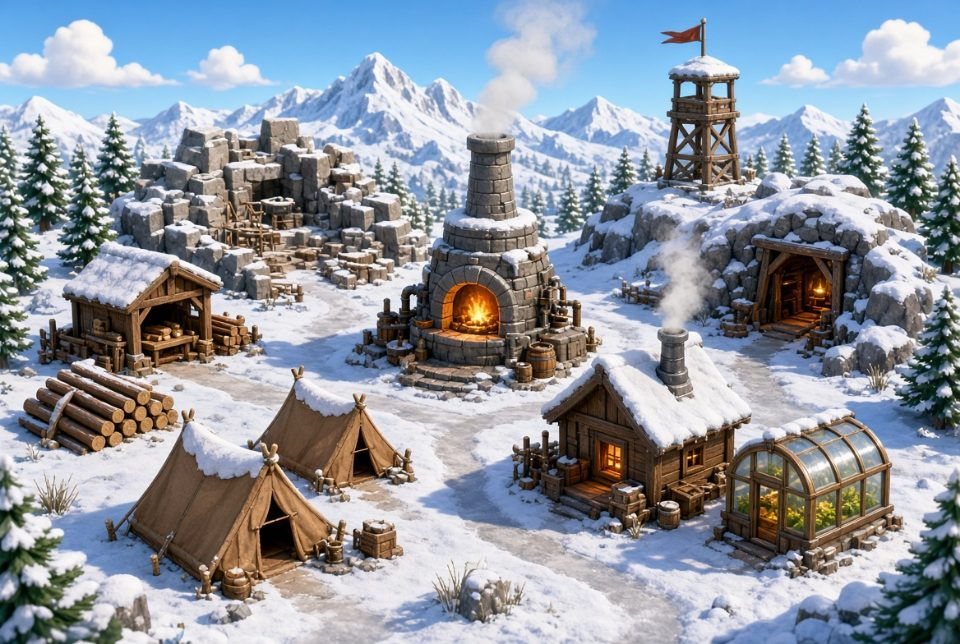
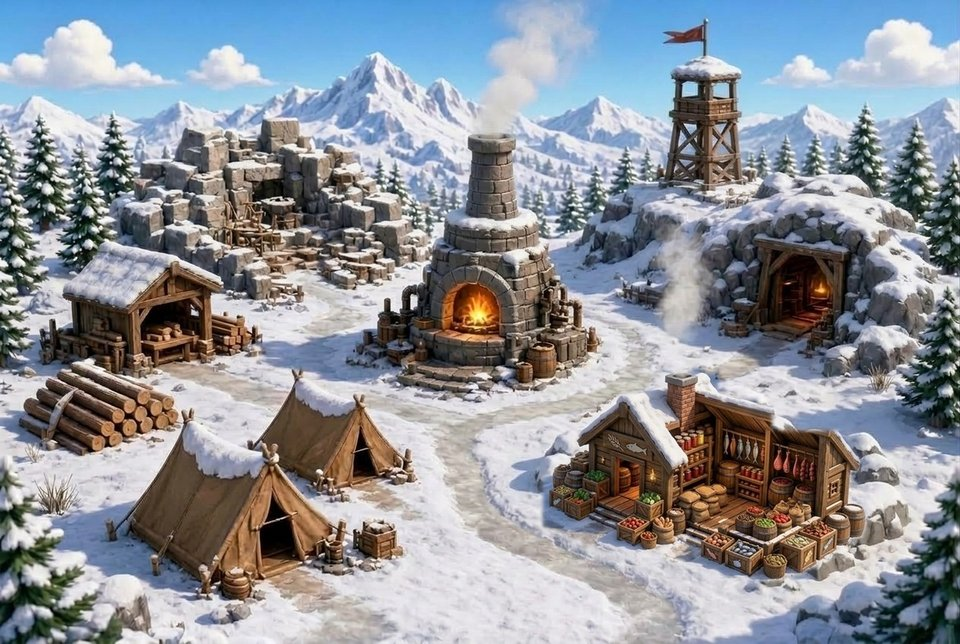
Lv5 の基地の絵の食料庫を描き直す（食料を蓄える蔵に。判断182）
Claude-Session: https://claude.ai/code/session_01UjvwbQ2i7zhmuacMMpyLDn

diff --git a/js/ui/base.js b/js/ui/base.js
@@ -123,7 +123,7 @@
   // 建物の絵そのもの（ART_AREAS の楕円の内側の四角）も押せる。どちらを押しても、SVG の風景と同じく建物の画面を開く
   var ART_SPOTS = {
     quarry: { x: 31, y: 44 }, watchtower: { x: 72, y: 29 }, lumber: { x: 13, y: 59 },
-    furnace: { x: 51, y: 59 }, mine: { x: 86, y: 56 }, housing: { x: 29, y: 87 }, foodhall: { x: 73, y: 87 }
+    furnace: { x: 51, y: 59 }, mine: { x: 86, y: 56 }, housing: { x: 29, y: 87 }, foodhall: { x: 73, y: 92 }
   };
 
   // ---- レベルで変わる基地の絵（判断180） ----
@@ -136,7 +136,7 @@
     quarry: { cx: 27, cy: 30, rx: 18, ry: 16 }, lumber: { cx: 15, cy: 52, rx: 15, ry: 15 },
     furnace: { cx: 51, cy: 37, rx: 13, ry: 24 }, watchtower: { cx: 72, cy: 15, rx: 8, ry: 17 },
     mine: { cx: 82, cy: 40, rx: 15, ry: 15 }, housing: { cx: 27, cy: 73, rx: 18, ry: 21 },
-    foodhall: { cx: 74, cy: 71, rx: 21, ry: 19 }
+    foodhall: { cx: 74, cy: 73, rx: 21, ry: 20 }
   };
   function fieldLevel(level) {
     var best = FIELD_LEVELS[0];
@@ -167,7 +167,7 @@
       5: [{ x: 50.8, y: 21, size: 7, puffs: 4, sec: 5, dx: 90 }]        // 中央炉の煙突
     },
     foodhall: {
-      5: [{ x: 70.1, y: 51, size: 5, puffs: 3, sec: 4.2, dx: 15 }]      // 家の煙突
+      5: [{ x: 71.0, y: 58, size: 4, puffs: 3, sec: 4.2, dx: 15 }]      // 食料庫の煙突
     }
   };
   function smokeView(p) {

diff --git a/DECISIONS.md b/DECISIONS.md
@@ -255,3 +255,4 @@
 179. 基地の絵に動く煙を足す（2026-09-28 ユーザーの依頼。まず今の絵のまま試す）：絵に描いてある煙突の出口（中央炉 x 50.8%・y 21%、食料庫の家 x 70.1%・y 51%。`base.js` の `ART_SMOKE`）に、白くふちのぼやけた丸い粒（CSS の radial-gradient）を中央炉は4つ・5秒、家は3つ・4.2秒で、時間をずらして上げる。粒は右へ流れながら上がり、2.4倍に広がって消える（描いてある煙の向きに合わせ、家は横に流れる量を少なく）。画像は増やさない。建物が Lv1 以上のときだけ出す。端末で「動きを減らす」を選んでいるときは出さない。描いてある煙と重なるので、自然さが足りなければ、煙のない絵に差し替えて粒の量を増やす。
 180. 建物のレベルで基地の絵を変える（2026-09-28 ユーザーの依頼。Lv1 の雪原はユーザーの新しい絵、これまでの雪原は Lv5 相当）：絵は「全部の建物がそのレベルの姿」の雪原を1枚ずつ（`img/art/field_lv1.jpg`・`field_lv5.jpg`。元の絵は `img/test_img/field_lv1.jpg`・`field_lv5.jpg`。どれも同じ構図）。Lv1 の絵を土台にして、建物ごとに、そのレベルの絵の建物のまわり（`base.js` の `ART_AREAS`。ふちをぼかした楕円。CSS の mask-image）だけを重ねる。こうすると、建物ごとにレベルが違っても、必要な絵はレベルの数（最大5枚）で済む。絵のないレベルは、それより低いレベルでいちばん近い絵を使う（今は Lv1〜4 が Lv1 の姿、Lv5 で Lv5 の姿。`FIELD_LEVELS` に足せば Lv2〜4 も使える）。まだ使えない建物（Lv0）は Lv1 の絵の姿（採石場は岩の山）、見張り塔は探索が開いたら Lv5 の絵の塔（それまでは柱）。煙（判断179）は「建物 → 絵のレベル → 出どころ」の表にし、Lv1 の中央炉はたき火から小さく、Lv5 は煙突から出す。食料庫の家の煙は Lv5 の絵だけ。
 181. 基地の絵の名札を小さくして建物からずらす（2026-09-28 ユーザーの了承）：判断177 の札（小さな建物の絵＋名前）は建物の絵に重なり、レベルで変わる姿（判断180）が見えにくかったため、小さな絵をやめて名前・Lv の名札だけにし、建物のすぐ下などの空いた地面に置く（`base.js` の `ART_SPOTS`）。建物の絵そのもの（`ART_AREAS` の楕円の内側の四角）も押せる（見た目はなし。キーボード・読み上げでは名札を使う）。強化できるときは名札のふちを緑にして ▲、工事中はふちを黄色にして 🔨、まだ使えないときは薄くして 🔒。
+182. Lv5 の基地の絵の食料庫を描き直す（2026-09-28 ユーザーの依頼と了承）：右下の「家＋ガラスの温室」は食料庫に見えないため、食料を蓄える木の蔵（前が開いて棚・たる・干した魚や肉・穀物の袋、まわりに野菜や果物の箱、れんがの煙突、看板は麦と魚の絵で文字なし）にした。Gemini（gemini-3.1-flash-image）で、(1) Lv5 の絵の食料庫だけを描き直し、(2) 看板の文字と道にはみ出した箱を消した。大きさは頼んでも変わらなかったため、(3) 食料庫を消した雪の絵を作ってもらい、(2) の絵から食料庫を切り抜いて 78% に縮め、(3) に貼った（ほかの建物は位置がずれていないことを重ねて確かめた）。元の絵 `img/test_img/field_lv5.jpg`（1168×784）と `img/art/field_lv5.jpg`（幅 960px）を差し替え、食料庫の煙の出どころを x 71.0%・y 58%（粒は少し小さく）、重ねる楕円を cy 73%・ry 20%、名札を y 92% に直した。食料庫のまわりの雪に岩が少し増え、中央炉の右下にたるが少し増えている（切り貼りの土台にした絵のため。重ねる範囲では目立たない）。

diff --git a/CLAUDE.md b/CLAUDE.md
@@ -6,7 +6,7 @@
 
 - 仕様：`SPEC.md`（v0.1＋v0.4 の勉強量ポイントと引換所）、`SPEC_v0.2.md`（探索。矛盾したらこちらが優先）、`SPEC_save_integrity.md`、`SPEC_theme.md`、`SPEC_theme_default_day.md`、`SPEC_v0.3.md`、`SPEC_v0.3_battle.md`
 - 設計：`DESIGN.md`（v0.2 は第12章、v0.3 戦闘は第13章、v0.4 は第14章）
-- **判断した点（19〜）と進捗の詳細：`DECISIONS.md`**。仕様にない判断をしたら、その末尾に番号を続けて追記する（次は 182）。関係する機能を変える前に、該当する判断を検索して読む
+- **判断した点（19〜）と進捗の詳細：`DECISIONS.md`**。仕様にない判断をしたら、その末尾に番号を続けて追記する（次は 183）。関係する機能を変える前に、該当する判断を検索して読む
 - 問題データの書き方：`QUESTIONS_GUIDE.md`（`questions/*.js` を作る・直す前に必ず読む）
 - 完成報告：`REPORT.md`（v0.1）、`REPORT_v0.2.md`、`REPORT_v0.3.md`、`REPORT_v0.4.md`
 - 手動確認：`tests/MANUAL.md`（末尾に自動テストとの分類の表）
@@ -26,7 +26,7 @@
 
 - v0.1〜v0.3（探索・戦闘・ボス・問題 1062問すべて `reviewed: true`）：完成・承認済み
 - v0.4（勉強量ポイントと引換所）：v0.4-1〜4 承認済み。v0.4-5（手動確認と完成報告）と「引換券を使うしくみ・メールの廃止」（判断173）は確認待ち
-- 見た目は昼だけ（夜のテーマは完成後に検討。判断176）。開始画面は試作の見た目（判断174、Google Fonts は判断175）。基地・資源・教科のアイコンは生成した絵の試作（判断177、基地の絵は建物のレベルで変わる＝判断180、`config.ART_STYLE` で戻せる。絵は `img/art/`、元の絵は `img/test_img/`）
+- 見た目は昼だけ（夜のテーマは完成後に検討。判断176）。開始画面は試作の見た目（判断174、Google Fonts は判断175）。基地・資源・教科のアイコンは生成した絵の試作（判断177、基地の絵は建物のレベルで変わる＝判断180、Lv5 の食料庫は判断182、`config.ART_STYLE` で戻せる。絵は `img/art/`、元の絵は `img/test_img/`）
 - 今後の検討課題：Lv1 の算数の出題範囲を広げる（判断161）。QR コード＋データベース（Supabase など）で引換券の使用済みを確かめる案（SPEC 14.5）。保護者用のロック（SPEC 14.4）
 - 自動テスト 403件すべて成功、`node tests/simulate.js` はすべて目標内
 
